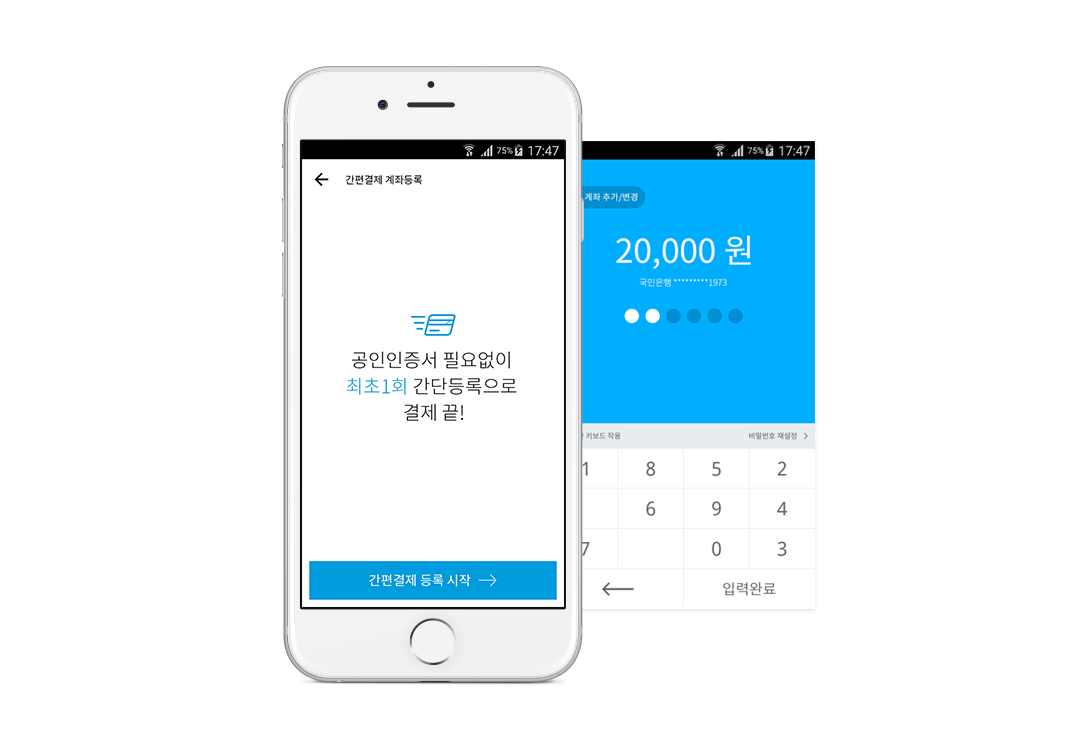
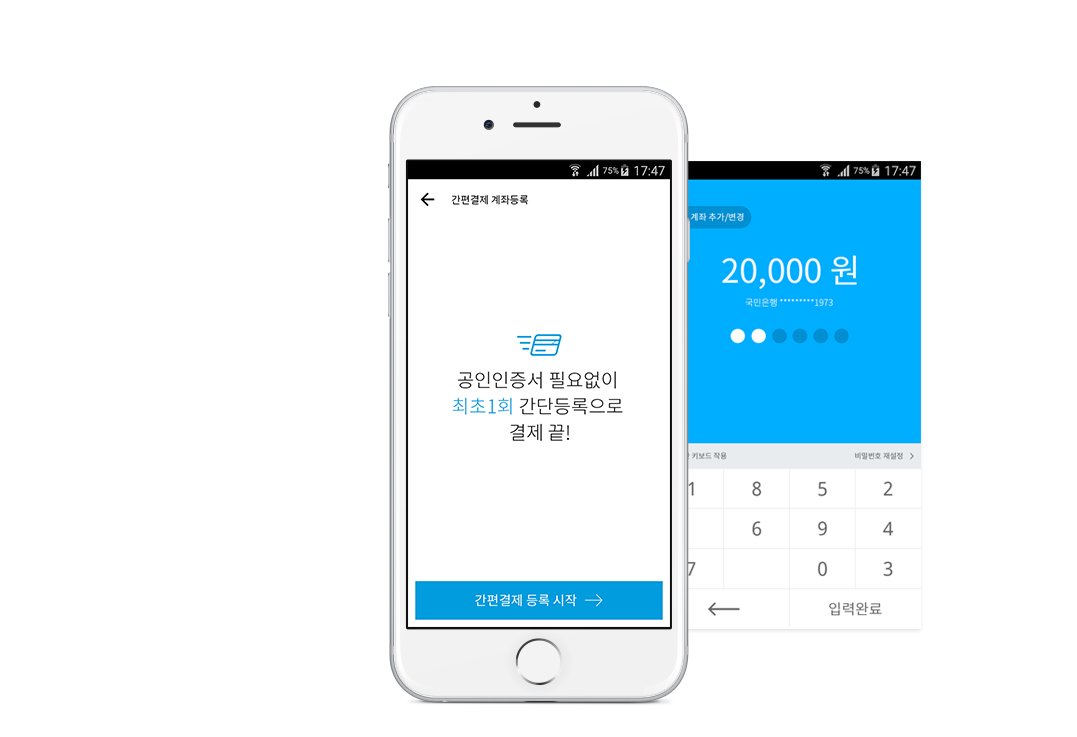
인덱스,컨텐츠 추가

Changed region(s): [[0.2451, 0.0624, 0.8579, 0.9674], [0.766, 0.8114, 0.8273, 0.8426], [0.6741, 0.7802, 0.7354, 0.8114]]

diff --git a/card_ssdam.html b/card_ssdam.html
@@ -1,0 +1,51 @@
+<!DOCTYPE html>
+<html lang="ko">
+<head>
+    <meta charset="UTF-8">
+    <title>Document</title>
+    <meta http-equiv="X-UA-Compatible" content="IE=edge">
+    <meta name="viewport" content="width=device-width, initial-scale=1">
+    <link rel="stylesheet" href="https://cdnjs.cloudflare.com/ajax/libs/twitter-bootstrap/3.3.7/css/bootstrap.min.css">
+    <!--[if lt IE 9]>
+        <script src="https://oss.maxcdn.com/html5shiv/3.7.2/html5shiv.min.js"></script>
+        <script src="https://oss.maxcdn.com/respond/1.4.2/respond.min.js"></script>
+    <![endif]-->
+    <link rel="stylesheet" href="./css/style.css">
+
+    <script src="https://cdnjs.cloudflare.com/ajax/libs/jquery/3.2.1/jquery.min.js"></script>
+    <script src="https://cdnjs.cloudflare.com/ajax/libs/twitter-bootstrap/3.3.7/js/bootstrap.min.js"></script>
+</head>
+<body>
+    <header id="header" role="banner">
+        <div class="logo">
+            <a href="https://christine0916.github.io/" rel="home">
+                <p class="site-title">Yoon Hyun Jin</p>
+            </a>
+        </div>
+        <nav id="site-navigation" class="main-navigation" role="navigation">
+                <ul class="nav navbar-nav navbar-right">
+                    <li class="menu"><a href="./about.html">About</a></li>
+                    <li class="menu"><a href="./index.html">Work</a></li>
+                    <li class="menu"><a href="./contact.html">Contact</a></li>
+                </ul>
+        </nav>
+    </header>
+
+    <div class="container">
+        <div class="contents-list">
+            <img src="./img/illust_0.png" class="contents-detail">
+            <img src="./img/illust_1.png" class="contents-detail">
+            <img src="./img/20160916_165347.png" class="contents-detail">
+            <img src="./img/20160916_165417.png" class="contents-detail">
+            <img src="./img/20160916_165453.png" class="contents-detail">
+            <img src="./img/20160916_165535.png" class="contents-detail">
+            <img src="./img/20160916_165604.png" class="contents-detail">
+            <img src="./img/ssdam_mobile.png" class="contents-detail">
+        </div>
+
+        <div class="contents-title">
+            반려동물용품 소셜리뷰 SNS 서비스 쓰담 웹/모바일웹 랜딩페이지.2016
+        </div>
+    </div>
+</body>
+</html>

diff --git a/index.html b/index.html
@@ -34,33 +34,43 @@
         <div id="columns">
             <ul>
                 <li class="card">
-                    <a href="./card_1.html">
+                    <a href="./card_christmas.html">
                         <img src="./img/ray_willy_mory.png" class="card-img">
                     </a>
                 </li>
                 <li class="card">
-                    <a href="./card_2.html">
+                    <a href="./card_ssdam-illust.html">
                         <img src="./img/ssdam_illust_thumbnail.png" class="card-img">
                     </a>
                 </li>
                 <li class="card">
-                    <a href="https://christine0916.github.io/">
+                    <a href="./card_ssdam.html">
                         <img src="./img/ssdam_thumbnail.png" class="card-img">
                     </a>
                 </li>
                 <li class="card">
-                    <a href="https://christine0916.github.io/">
+                    <a href="./card_6ix.html">
                         <img src="./img/six_thumbnail.png" class="card-img">
                     </a>
                 </li>
                 <li class="card">
-                    <a href="https://christine0916.github.io/">
+                    <a href="./card_hellopay.html">
                         <img src="./img/hellopay_thumbnail.png" class="card-img">
                     </a>
                 </li>
                 <li class="card">
-                    <a href="https://christine0916.github.io/">
+                    <a href="./card_rehellomarket.html">
                         <img src="./img/hellomarket_renewal_thumbnail.png" class="card-img">
+                    </a>
+                </li>
+                <li class="card">
+                    <a href="https://christine0916.github.io/">
+                        <img src="./img/hellomarket_thubmail.png" class="card-img">
+                    </a>
+                </li>
+                <li class="card">
+                    <a href="https://christine0916.github.io/">
+                        <img src="./img/simkoong_thumbnail.png" class="card-img">
                     </a>
                 </li>
             </ul>

diff --git a/card_6ix.html b/card_6ix.html
@@ -1,0 +1,47 @@
+<!DOCTYPE html>
+<html lang="ko">
+<head>
+    <meta charset="UTF-8">
+    <title>Document</title>
+    <meta http-equiv="X-UA-Compatible" content="IE=edge">
+    <meta name="viewport" content="width=device-width, initial-scale=1">
+    <link rel="stylesheet" href="https://cdnjs.cloudflare.com/ajax/libs/twitter-bootstrap/3.3.7/css/bootstrap.min.css">
+    <!--[if lt IE 9]>
+        <script src="https://oss.maxcdn.com/html5shiv/3.7.2/html5shiv.min.js"></script>
+        <script src="https://oss.maxcdn.com/respond/1.4.2/respond.min.js"></script>
+    <![endif]-->
+    <link rel="stylesheet" href="./css/style.css">
+
+    <script src="https://cdnjs.cloudflare.com/ajax/libs/jquery/3.2.1/jquery.min.js"></script>
+    <script src="https://cdnjs.cloudflare.com/ajax/libs/twitter-bootstrap/3.3.7/js/bootstrap.min.js"></script>
+</head>
+<body>
+    <header id="header" role="banner">
+        <div class="logo">
+            <a href="https://christine0916.github.io/" rel="home">
+                <p class="site-title">Yoon Hyun Jin</p>
+            </a>
+        </div>
+        <nav id="site-navigation" class="main-navigation" role="navigation">
+                <ul class="nav navbar-nav navbar-right">
+                    <li class="menu"><a href="./about.html">About</a></li>
+                    <li class="menu"><a href="./index.html">Work</a></li>
+                    <li class="menu"><a href="./contact.html">Contact</a></li>
+                </ul>
+        </nav>
+    </header>
+
+    <div class="container">
+        <div class="contents-list">
+            <img src="./img/six_1.png" class="contents-detail">
+            <img src="./img/six_2.png" class="contents-detail">
+            <img src="./img/six_3.png" class="contents-detail">
+            <img src="./img/six_4.png" class="contents-detail">
+        </div>
+        <div class="contents-title">
+            믿을 수 있는 사람들과의 SNS 6IX 서비스 어플 디자인.2016
+        </div>
+    </div>
+    </div>
+</body>
+</html>

diff --git a/card_rehellomarket.html b/card_rehellomarket.html
@@ -1,0 +1,45 @@
+<!DOCTYPE html>
+<html lang="ko">
+<head>
+    <meta charset="UTF-8">
+    <title>Document</title>
+    <meta http-equiv="X-UA-Compatible" content="IE=edge">
+    <meta name="viewport" content="width=device-width, initial-scale=1">
+    <link rel="stylesheet" href="https://cdnjs.cloudflare.com/ajax/libs/twitter-bootstrap/3.3.7/css/bootstrap.min.css">
+    <!--[if lt IE 9]>
+        <script src="https://oss.maxcdn.com/html5shiv/3.7.2/html5shiv.min.js"></script>
+        <script src="https://oss.maxcdn.com/respond/1.4.2/respond.min.js"></script>
+    <![endif]-->
+    <link rel="stylesheet" href="./css/style.css">
+
+    <script src="https://cdnjs.cloudflare.com/ajax/libs/jquery/3.2.1/jquery.min.js"></script>
+    <script src="https://cdnjs.cloudflare.com/ajax/libs/twitter-bootstrap/3.3.7/js/bootstrap.min.js"></script>
+</head>
+<body>
+    <header id="header" role="banner">
+        <div class="logo">
+            <a href="https://christine0916.github.io/" rel="home">
+                <p class="site-title">Yoon Hyun Jin</p>
+            </a>
+        </div>
+        <nav id="site-navigation" class="main-navigation" role="navigation">
+                <ul class="nav navbar-nav navbar-right">
+                    <li class="menu"><a href="./about.html">About</a></li>
+                    <li class="menu"><a href="./index.html">Work</a></li>
+                    <li class="menu"><a href="./contact.html">Contact</a></li>
+                </ul>
+        </nav>
+    </header>
+
+    <div class="container">
+        <div class="contents-list">
+            <img src="./img/hellomarket_renewal_1.png" class="contents-detail">
+            <img src="./img/hellomarket_renewal_2.png" class="contents-detail">
+            <img src="./img/hellomarket_renewal_3.png" class="contents-detail">
+        </div>
+        <div class="contents-title">
+            개인프로젝트 헬로마켓 어플 디자인 리뉴얼.2016
+        </div>
+    </div>
+</body>
+</html>

diff --git a/card_christmas.html b/card_christmas.html
@@ -1,0 +1,44 @@
+<!DOCTYPE html>
+<html lang="ko">
+<head>
+    <meta charset="UTF-8">
+    <title>Document</title>
+    <meta http-equiv="X-UA-Compatible" content="IE=edge">
+    <meta name="viewport" content="width=device-width, initial-scale=1">
+    <link rel="stylesheet" href="https://cdnjs.cloudflare.com/ajax/libs/twitter-bootstrap/3.3.7/css/bootstrap.min.css">
+    <!--[if lt IE 9]>
+        <script src="https://oss.maxcdn.com/html5shiv/3.7.2/html5shiv.min.js"></script>
+        <script src="https://oss.maxcdn.com/respond/1.4.2/respond.min.js"></script>
+    <![endif]-->
+    <link rel="stylesheet" href="./css/style.css">
+
+    <script src="https://cdnjs.cloudflare.com/ajax/libs/jquery/3.2.1/jquery.min.js"></script>
+    <script src="https://cdnjs.cloudflare.com/ajax/libs/twitter-bootstrap/3.3.7/js/bootstrap.min.js"></script>
+</head>
+<body>
+    <header id="header" role="banner">
+        <div class="logo">
+            <a href="https://christine0916.github.io/" rel="home">
+                <p class="site-title">Yoon Hyun Jin</p>
+            </a>
+        </div>
+        <nav id="site-navigation" class="main-navigation" role="navigation">
+                <ul class="nav navbar-nav navbar-right">
+                    <li class="menu"><a href="./about.html">About</a></li>
+                    <li class="menu"><a href="./index.html">Work</a></li>
+                    <li class="menu"><a href="./contact.html">Contact</a></li>
+                </ul>
+        </nav>
+    </header>
+
+    <div class="container">
+        <div class="contents-lisd">
+            <img src="./img/ray_willy_mory.png" style="width: 50%;">
+        </div>
+        <div class="contents-title">
+            크리스마스 기념 일러스트.2016
+        </div>
+    </div>
+    </div>
+</body>
+</html>

diff --git a/card_hellopay.html b/card_hellopay.html
@@ -32,13 +32,13 @@
     </header>
 
     <div class="container">
+        <div class="contents-list">
+            <img src="./img/hellopay_1.png" class="contents-detail">
+            <img src="./img/hellopay_2.png" class="contents-detail">
+        </div>
         <div class="contents-title">
-            반려동물용품 소셜리뷰 SNS 서비스 쓰담 일러스트
+            헬로마켓 어플 내부 서비스 간편결제 시스템 디자인.2016
         </div>
-        <div class="contents-img">
-            <img src="./img/ssdam_illust.png">
-        </div>
-    </div>
     </div>
 </body>
 </html>

diff --git a/card_ssdam-illust.html b/card_ssdam-illust.html
@@ -32,11 +32,11 @@
     </header>
 
     <div class="container">
-        <div class="contents-title">
-            크리스마스 기념 일러스트
-        </div>
         <div class="contents-img">
-            <img src="./img/ray_willy_mory.png" style="width: 50%;">
+            <img src="./img/ssdam_illust.png">
+        </div>
+        <div class="contents-title">
+            반려동물용품 소셜리뷰 SNS 서비스 쓰담 일러스트
         </div>
     </div>
     </div>

diff --git a/css/style.css b/css/style.css
@@ -109,13 +109,17 @@ li.card{
 .group{
     padding-top: 20px;
 }
-
-.contents-img{
-    padding-top: 20px;
+.contents-list{
     text-align: center;
+    max-width: 1185px;
+}
+.contents-detail{
+    padding-top: 20px;
+    width: 100%;
+    display: inline-block;
 }
 .contents-title{
-    padding-top: 20px;
+    padding: 50px;
     font-size: 14px;
     text-align: center;
 }
